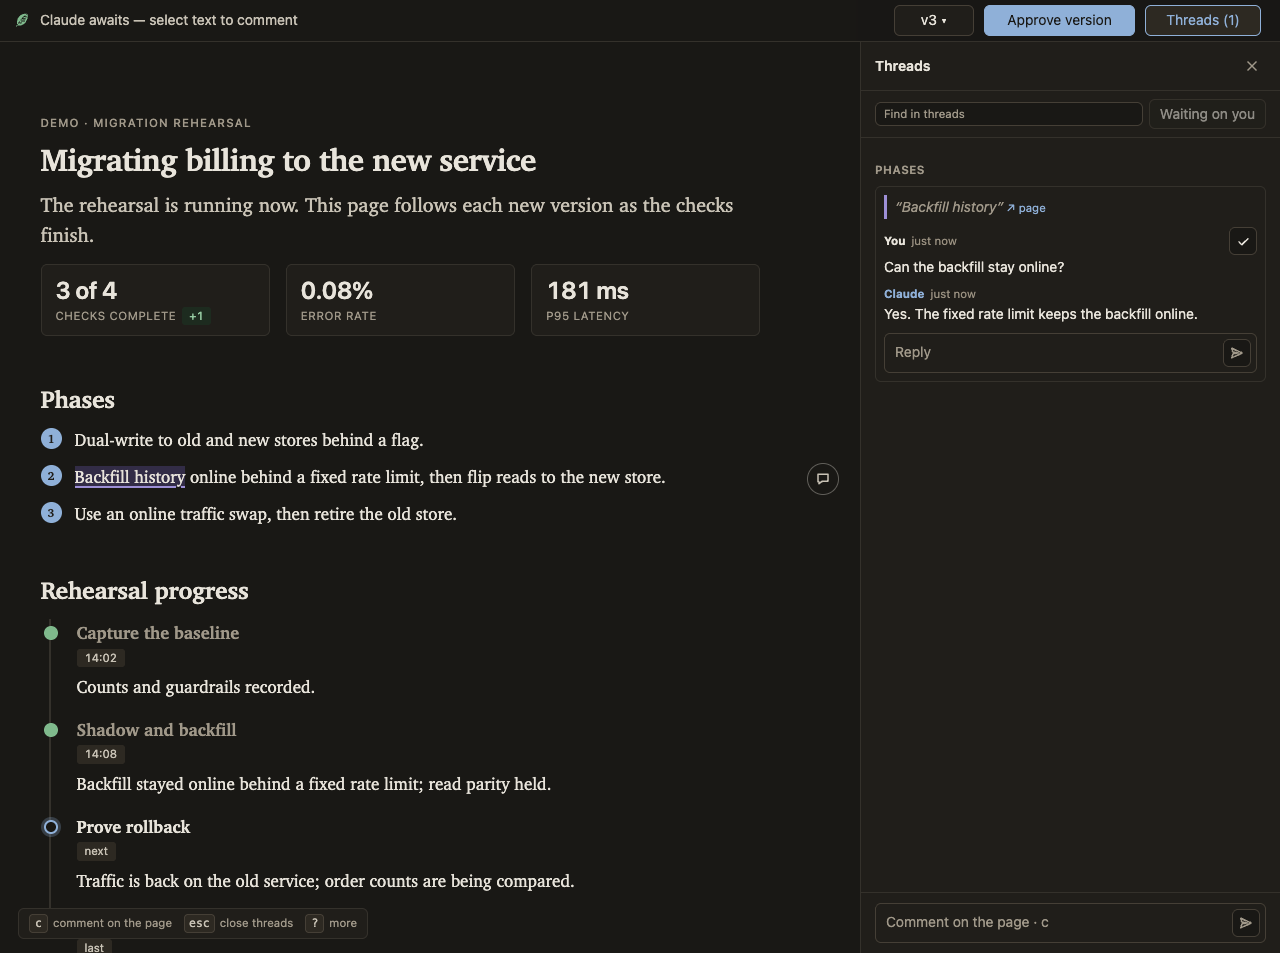
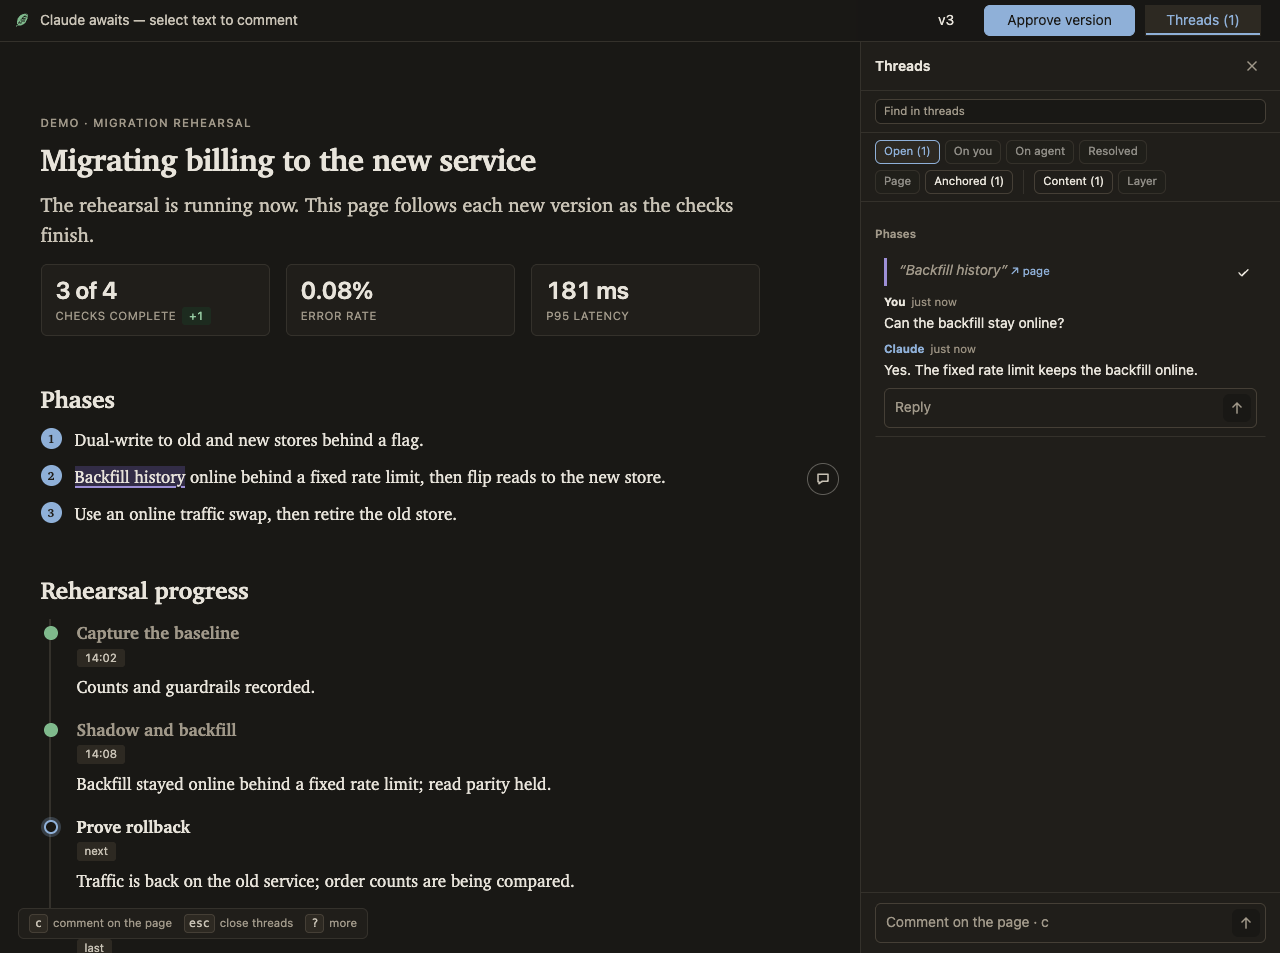
Shoot the site's card at the shape a card is drawn
Every unfurler that draws a link card draws it at 1.91:1 and centre-crops whatever
it is handed. The product pages were handing it the landing page's 4:3 session
still, so what a shared leaf.page link actually showed was that still with a
seventh cut off the top and another off the bottom — and the top is the banner:
"Claude awaits", the version control, Approve version, Threads (1). Every part of
the picture that says the page is live was the part the crop took.

The still could not simply be cropped in place, because docs/index.html displays
it. So the card is its own photograph of the same staged scene, shot at 1200x630
by record-demo.py alongside the two stills. It is shot at the size it is displayed
rather than downscaled into it, so its words are rendered rather than resampled,
and it goes stale exactly when the stills beside it do — which is the reason that
script draws them at all.

Re-recording the scene also refreshed the two stills, which had aged behind the
product: the thread panel has gained its filter rows and a search box, and the
version control has lost its box, since they were last shot. docs/index.html's
media references move with them, the names being digests of the bytes.

scripts/CLAUDE.md said with_site_head composes the canonical link. It doesn't
since the previous commit — every Leaf document names its own page root now — so
that paragraph says what the site still adds and what it no longer does.
[…]

diff --git a/docs/index.html b/docs/index.html
@@ -78,10 +78,10 @@
         <picture>
           <source
             media="(prefers-color-scheme: dark)"
-            srcset="/media/441bbbdb8abba87b.png"
+            srcset="/media/e52f0072f87eb069.png"
           />
           <img
-            src="/media/f3883f5c8f6d6f19.png"
+            src="/media/e5d9c6d6ea8f360b.png"
             alt="A live leaf in the browser: a migration plan with a comment anchored
 to a highlighted passage, Claude's reply in the thread, a Versions menu control reading
 v3 (latest), and a banner reading 'Claude awaits'."
@@ -197,7 +197,7 @@ v3 (latest), and a banner reading 'Claude awaits'."
 
       <figure class="shot" id="loop-demo">
         <img
-          src="/media/45d6ed3b0b5889b0.gif"
+          src="/media/85dbb14d235ee3e1.gif"
           alt="A live leaf page. The user selects Backfill history and writes a
 comment while the passage stays highlighted. The agent replies, saves a new revision
 whose rehearsal count advances, and the user drags an on-call task to During."

diff --git a/scripts/record-demo.py b/scripts/record-demo.py
@@ -1,14 +1,15 @@
 #!/usr/bin/env python3
-"""Record docs/demo.gif, and the landing page's two session stills, by driving the
-shipped runtime through one round.
+"""Record docs/demo.gif, the landing page's two session stills, and the site's card, by
+driving the shipped runtime through one round.
 
 The stills used to be shot by hand, which meant nothing regenerated them and nothing
 noticed when they stopped being true: a theme change left the landing page arguing for
 a product whose picture showed the previous one. They come off the same staged scene as
 the GIF because that scene is already the one the page's alt text describes — a comment
 anchored to a marked passage, Claude's reply in the thread, the answered round latest in
-the picker — so shooting them here costs two more browser contexts and gives them
-something to re-run."""
+the picker — so shooting them here costs a browser context each and gives them something
+to re-run. The card is here for the same reason: a picture of the product goes stale the
+way the others do, and the one a shared link shows is the first thing most readers see."""
 
 from __future__ import annotations
 
@@ -31,6 +32,20 @@ DEFAULT_OUTPUT = ROOT / "docs" / "demo.gif"
 GIF_SIZE = (1120, 700)
 # The viewport used for the landing page's representative stills.
 STILL_SIZE = (1280, 953)
+# The card a shared link unfurls into. Every unfurler that draws one draws it at
+# 1.91:1, so the scene is shot at that shape rather than shot tall and cropped to it:
+# cropping the still took a seventh off the top and another off the bottom, which is
+# where the banner and the thread's last line are. Shot at the size it is displayed,
+# so its words are rendered rather than resampled.
+CARD_SIZE = (1200, 630)
+# What one staged scene is photographed as: the landing page's light and dark stills,
+# and the card. Each is a fresh context because a viewport and a color scheme are
+# context-level settings.
+STILLS = (
+    ("session-light", STILL_SIZE, "light"),
+    ("session-dark", STILL_SIZE, "dark"),
+    ("session-card", CARD_SIZE, "light"),
+)
 
 
 # The board as the document first states it, and the words each card carries. Kept as
@@ -413,8 +428,8 @@ def shoot_stills(
     page_dir: Path,
     into: Path,
 ) -> None:
-    """The landing page's two session stills, off the scene `record` has just left,
-    written beside the GIF rather than to a path of their own.
+    """The landing page's session stills and the site's card, off the scene `record`
+    has just left, written beside the GIF rather than to a path of their own.
 
     `--output` redirects the whole recording, and the stills have to go with it: the
     suite records into a tmp directory to prove the journey still drives, and stills
@@ -434,7 +449,10 @@ def shoot_stills(
     One shot per color scheme, because the page states both and the landing page
     serves whichever the reader's OS asks for. A scheme is a context-level setting,
     not something to toggle on a live page: the vendored diagram palette is read once
-    at load, so a flipped page would carry the other scheme's diagrams.
+    at load, so a flipped page would carry the other scheme's diagrams. The card is
+    the third, in light, at the shape an unfurler draws: what it shows is the product,
+    the same claim the stills make, framed for the place it is shown rather than left
+    to be cropped there.
 
     Getting the banner to say "Claude awaits" takes answering the round and then
     stating both halves of attendance. `record` has received the board action, and
@@ -463,9 +481,9 @@ def shoot_stills(
         if line.strip()
     )
 
-    for scheme in ("light", "dark"):
+    for name, size, scheme in STILLS:
         context = browser.new_context(
-            viewport={"width": STILL_SIZE[0], "height": STILL_SIZE[1]},
+            viewport={"width": size[0], "height": size[1]},
             color_scheme=scheme,
             reduced_motion="reduce",
         )
@@ -488,9 +506,7 @@ def shoot_stills(
         page.wait_for_function(
             "() => document.querySelector('body > main').getAnimations().length === 0"
         )
-        page.screenshot(
-            path=into / f"session-{scheme}.png", animations="disabled", caret="hide"
-        )
+        page.screenshot(path=into / f"{name}.png", animations="disabled", caret="hide")
         context.close()
 
 

diff --git a/tests/test_site.py b/tests/test_site.py
@@ -32,6 +32,7 @@ from leaf.event_log import _parse_events, read_events
 from leaf.events import bare_reaction, build_threads
 from leaf.passages import enclosing_ids
 from leaf.structure import parse_structure
+from PIL import Image
 from playwright.sync_api import expect
 
 # The suite's own page primitives, so a navigation here waits on what every other
@@ -360,6 +361,14 @@ def test_a_crawler_is_given_one_page_per_route(site):
                 f'property="og:title" content="{html_module.escape(page["title"])}"'
                 in head
             ), document
+        if page["kind"] == "product":
+            # Whoever draws the card draws it at 1.91:1 and centre-crops whatever it
+            # is given, so a picture of another shape arrives with a band off the top
+            # and the bottom. The product shot lost its banner that way: the version
+            # control, the approval, the thread count, every part of the picture that
+            # says the page is live.
+            with Image.open(assets / page["image"].lstrip("/")) as card:
+                assert card.size == (1200, 630), route
 
 
 def test_the_edge_shell_is_the_document_and_runtime_the_leaf_server_serves(

diff --git a/tests/test_product_page.py b/tests/test_product_page.py
@@ -15,6 +15,7 @@ from leaf import cli as cli_model
 from leaf.registry import validation as registry_validation
 from leaf.structure import parse_structure
 from leaf.validation import compatibility as validation_model
+from PIL import Image
 
 ROOT = Path(__file__).parent.parent
 ASSETS = ROOT / "skills" / "leaf" / "assets"
@@ -234,3 +235,13 @@ def test_demo_recording_drives_the_browser_journey(tmp_path):
     )
     assert recorded.stdout.strip() == f"Recorded {output}"
     assert output.read_bytes().startswith(b"GIF89a")
+    # One staged scene, photographed for each surface that shows it: the landing
+    # page's figure in both schemes, and the card, at the 1.91:1 an unfurler draws.
+    # Shot at that shape rather than cropped to it, so the banner survives the trip.
+    for name, size in (
+        ("session-light.png", (1280, 953)),
+        ("session-dark.png", (1280, 953)),
+        ("session-card.png", (1200, 630)),
+    ):
+        with Image.open(output.parent / name) as still:
+            assert still.size == size, name

diff --git a/scripts/site.py b/scripts/site.py
@@ -68,7 +68,14 @@ PRODUCT_ROUTES = {
 SITE_PACKAGE = "./docs/package"
 # The card a link to a product page unfurls into. An example names its own catalog
 # preview instead, so a shared example shows the page rather than the product shot.
-DEFAULT_SOCIAL_IMAGE = DOCS / "session-light.png"
+#
+# Its own file rather than the landing page's still, because the two are shown at
+# different shapes: an unfurler draws a card at 1.91:1, and the still is 4:3, so
+# serving the still here handed every reader a centre crop of it with the banner cut
+# off the top — the version control, the approval, the thread count, everything that
+# says a page is live. `record-demo.py` shoots this off the same scene at the card's
+# own shape, so it stays as true as the stills beside it.
+DEFAULT_SOCIAL_IMAGE = DOCS / "session-card.png"
 
 
 class Links(HTMLParser):

diff --git a/scripts/CLAUDE.md b/scripts/CLAUDE.md
@@ -33,10 +33,12 @@ rules a new or changed example has to meet.
   It also writes what a crawler reads: `robots.txt`, a `sitemap.xml` of the clean
   routes, and each page's card. A page's title and description are authored in its own
   source, and the build refuses one that has neither. The rest of the card — the
-  canonical link, the Open Graph and Twitter declarations, and the image — is composed
-  by `with_site_head` in `worker/server.py`, which the container server calls too, so
-  the edge shell and the served page stay one document. Each page's image is named in
-  the manifest, the product shot for a product page and the catalog preview for an
+  Open Graph and Twitter declarations and the image — is composed by `with_site_head`
+  in `worker/server.py`, which the container server calls too, so the edge shell and
+  the served page stay one document. The canonical link is not the site's: every Leaf
+  document names its own page root, so the three addresses a page answers collapse
+  onto one wherever a page directory is published. Each page's image is named in the
+  manifest, `docs/session-card.png` for a product page and the catalog preview for an
   example, and `check_links` resolves it the way it resolves an href.
   `verify-site-local.sh` checks that built output through that boundary and prints the
   document, widget-upgrade, and presentation milestones with the requests and bytes
@@ -64,9 +66,10 @@ rules a new or changed example has to meet.
   `query-site-agent-logs.py` reads one canonical event id or visible session reference
   from production Workers Observability and emits only Leaf's declared timing fields,
   excluding Cloudflare's surrounding request metadata.
-- `record-demo.sh` regenerates `docs/demo.gif`; `record-demo.py` draws the Leaf
-  screenshots that demo uses. Keep the latter while the product can make those frames
-  stale.
+- `record-demo.sh` regenerates `docs/demo.gif`; `record-demo.py` draws it and the three
+  photographs of the same staged scene beside it — the landing page's light and dark
+  session stills, and `session-card.png` at the 1.91:1 an unfurler draws a card at.
+  Keep the latter while the product can make those frames stale.
 
 ## Vendored bundles
 
